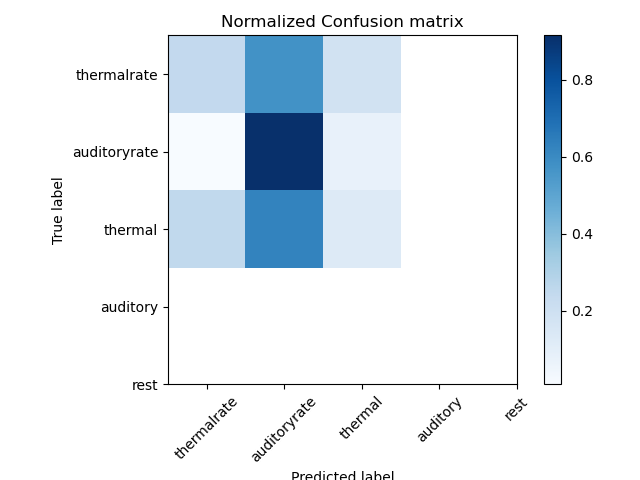
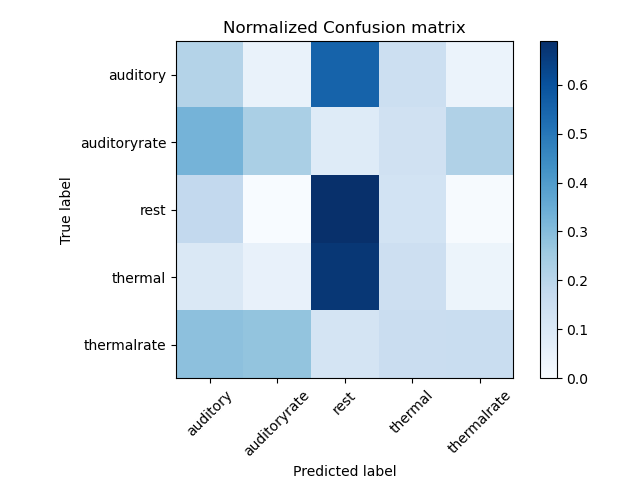
adapted confusion matrix

diff --git a/04models.py b/04models.py
@@ -85,7 +85,7 @@ elif "mplab" in current_directory:
 else:
     model_name = "covariance_MDM" #set the model to use. also determines dl and kind of task
     part = 'within'# 'between' or 'within' participant
-    target = "3_classes"
+    target = "5_classes"
     optimizer_lr = 0.000625
     bsize = 16
     device = torch.device('cpu')  # Use CPU if GPU is not available or cuda is False
@@ -524,28 +524,27 @@ elif dl == False:
 
 # For classification, build a confusion matrix
 if task == 'classification':
-    if target == '5_classes':
-        target_names = ["thermalrate", "auditoryrate", "thermal", "auditory", "rest"]
-    else:
-        target_names = ["thermal", "auditory", "rest"]
-        
+
     # Convert the lists to numpy arrays
     all_true_labels = np.array(all_true_labels)
     all_predictions = np.array(all_predictions)
 
-    # Compute the confusion matrix
-    cm = confusion_matrix(all_true_labels, all_predictions)
-    cm_normalized = cm.astype(float) / cm.sum(axis=1)[:, np.newaxis]
+    # Get the unique class labels
+    unique_labels = np.unique(np.concatenate((all_true_labels, all_predictions)))
 
+    # Compute the confusion matrix with specified labels
+    cm = confusion_matrix(all_true_labels, all_predictions, labels=unique_labels)
+    cm_normalized = cm.astype(float) / cm.sum(axis=1)[:, np.newaxis]
+    
     # Plot confusion matrix
     fig, ax = plt.subplots(1)
     im = ax.imshow(cm_normalized, interpolation="nearest", cmap=plt.cm.Blues)
     ax.set(title="Normalized Confusion matrix")
     fig.colorbar(im)
-    tick_marks = np.arange(len(target_names))
-    plt.xticks(tick_marks, target_names, rotation=45)
-    plt.yticks(tick_marks, target_names)
-    fig.tight_layout()
+    tick_marks = np.arange(len(unique_labels))
+    plt.xticks(tick_marks, unique_labels, rotation=45)
+    plt.yticks(tick_marks, unique_labels)
+    fig.tight_layout(pad=1.5)
     ax.set(ylabel="True label", xlabel="Predicted label")
 
     # Save the confusion matrix plot as an image file

diff --git a/04models_cc.py b/04models_cc.py
@@ -516,25 +516,27 @@ elif dl == False:
 
 # For classification, build a confusion matrix
 if task == 'classification':
-    target_names = ["thermalrate", "auditoryrate", "thermal", "auditory", "rest"]
 
     # Convert the lists to numpy arrays
     all_true_labels = np.array(all_true_labels)
     all_predictions = np.array(all_predictions)
 
-    # Compute the confusion matrix
-    cm = confusion_matrix(all_true_labels, all_predictions)
-    cm_normalized = cm.astype(float) / cm.sum(axis=1)[:, np.newaxis]
+    # Get the unique class labels
+    unique_labels = np.unique(np.concatenate((all_true_labels, all_predictions)))
 
+    # Compute the confusion matrix with specified labels
+    cm = confusion_matrix(all_true_labels, all_predictions, labels=unique_labels)
+    cm_normalized = cm.astype(float) / cm.sum(axis=1)[:, np.newaxis]
+    
     # Plot confusion matrix
     fig, ax = plt.subplots(1)
     im = ax.imshow(cm_normalized, interpolation="nearest", cmap=plt.cm.Blues)
     ax.set(title="Normalized Confusion matrix")
     fig.colorbar(im)
-    tick_marks = np.arange(len(target_names))
-    plt.xticks(tick_marks, target_names, rotation=45)
-    plt.yticks(tick_marks, target_names)
-    fig.tight_layout()
+    tick_marks = np.arange(len(unique_labels))
+    plt.xticks(tick_marks, unique_labels, rotation=45)
+    plt.yticks(tick_marks, unique_labels)
+    fig.tight_layout(pad=1.5)
     ax.set(ylabel="True label", xlabel="Predicted label")
 
     # Save the confusion matrix plot as an image file
